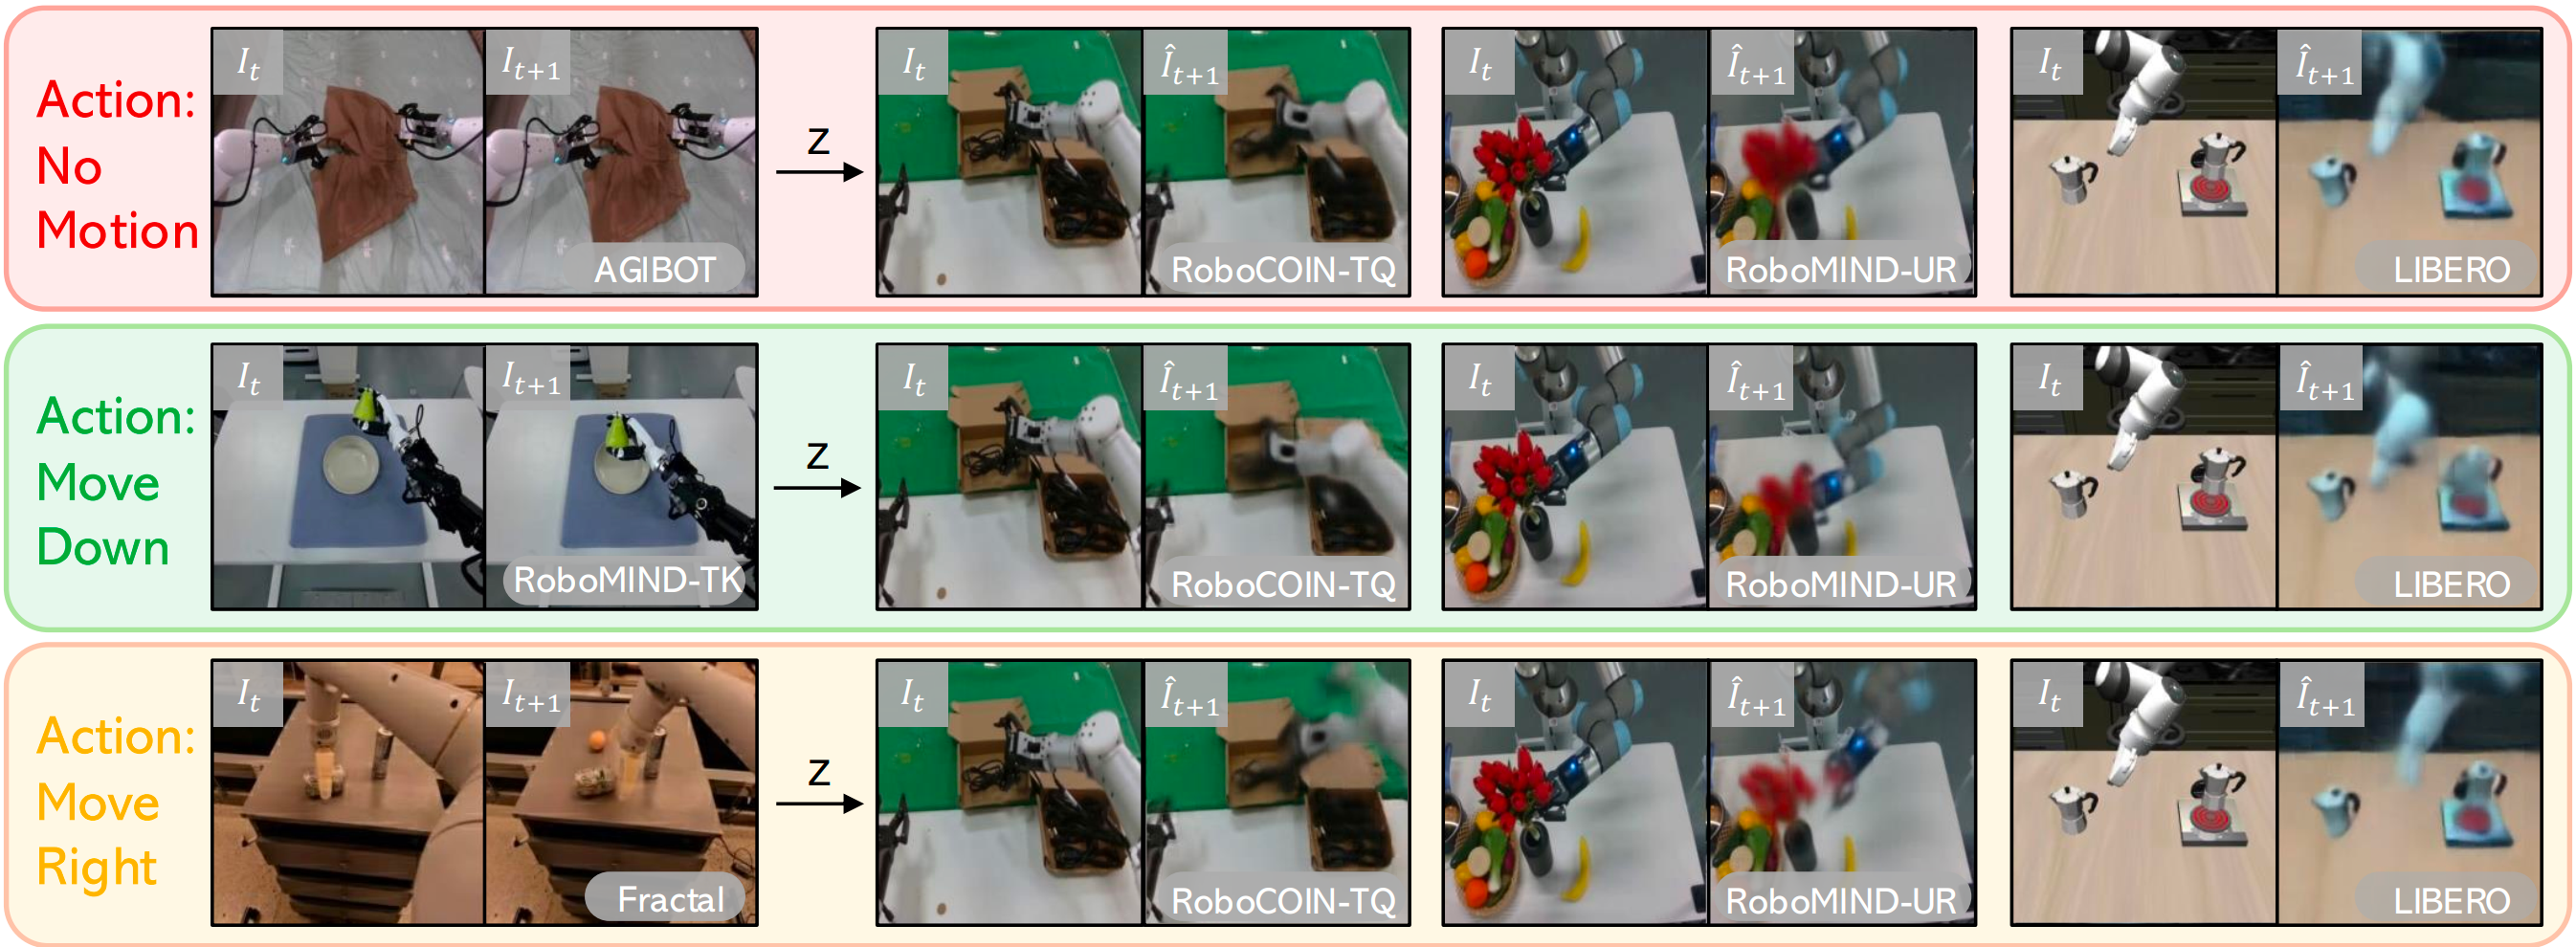
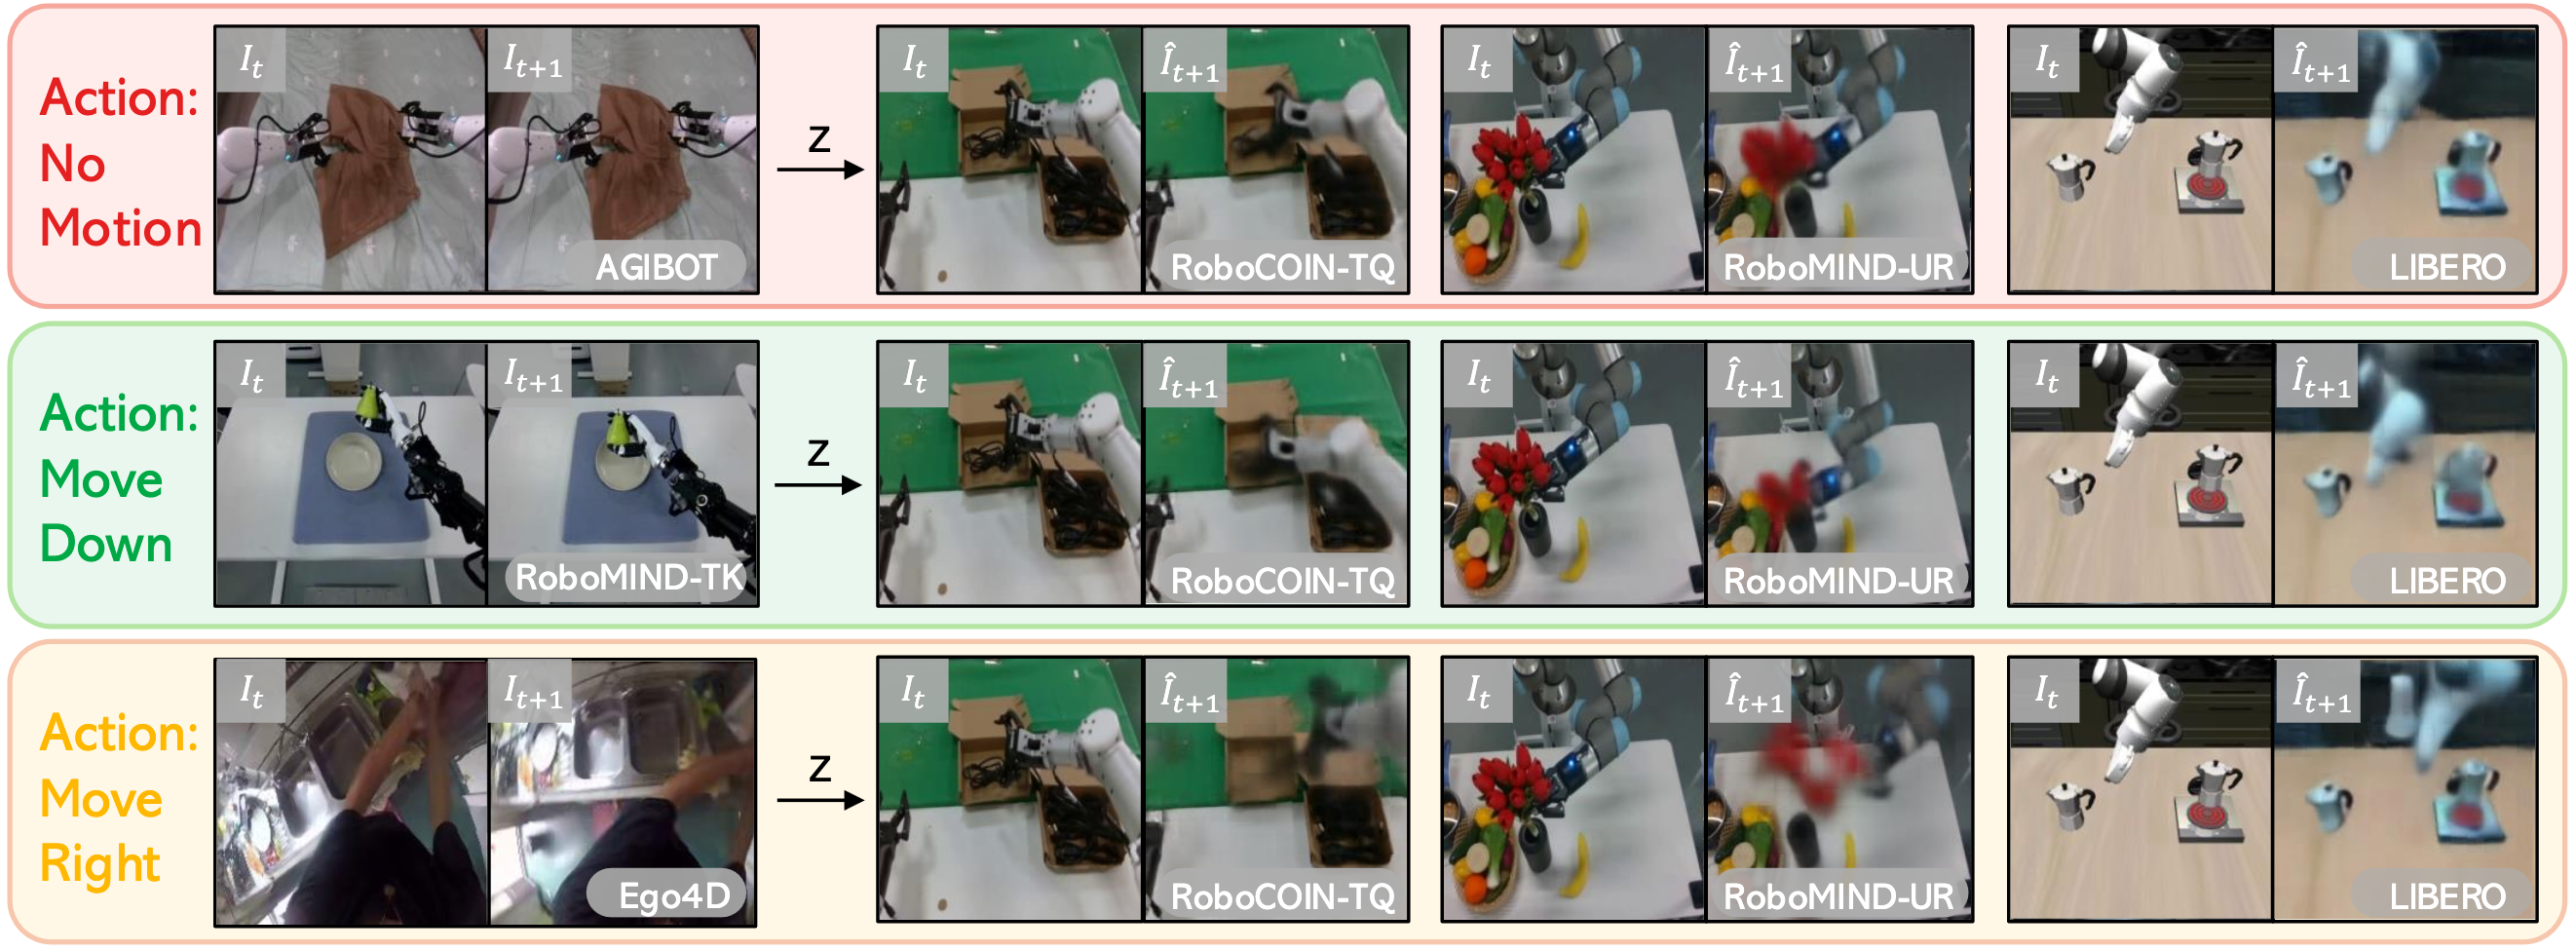
update index.html

diff --git a/index.html b/index.html
@@ -374,15 +374,16 @@
       
       <div class="authors">
         <a class="author-link" href="https://qiweili00.github.io/" target="_blank" rel="noopener noreferrer">Qiwei Li<sup>1</sup></a>,
-        <a class="author-link" href="https://example.com/author2" target="_blank" rel="noopener noreferrer">Xicheng Gong<sup>1</sup></a>,
+        <a class="author-link" href="https://openreview.net/profile?id=~Xicheng_Gong1" target="_blank" rel="noopener noreferrer">Xicheng Gong<sup>1</sup></a>,
         <a class="author-link" href="https://scholar.google.com/citations?user=laOWyTQAAAAJ&hl=zh-CN" target="_blank" rel="noopener noreferrer">Xinghang Li<sup>2</sup></a>,
-        <a class="author-link" href="https://example.com/author4" target="_blank" rel="noopener noreferrer">Quanyun Zhou<sup>2</sup></a>,
+        <a class="author-link" href="https://scholar.google.com/citations?hl=zh-CN&user=b8z2YcYAAAAJ" target="_blank" rel="noopener noreferrer">Peiyan Li<sup>3</sup></a>,
+        <a class="author-link" href="https://openreview.net/profile?id=~Quanyun_Zhou1" target="_blank" rel="noopener noreferrer">Quanyun Zhou<sup>2</sup></a>,
         <a class="author-link" href="https://scholar.google.com/citations?user=68tXhe8AAAAJ&hl=zh-CN&oi=ao" target="_blank" rel="noopener noreferrer">Hangjun Ye<sup>2</sup></a>,
         <a class="author-link" href="https://zhoujiahuan1991.github.io/" target="_blank" rel="noopener noreferrer">Jiahuan Zhou<sup>1*</sup></a>,
         <a class="author-link" href="http://www.muyadong.com/" target="_blank" rel="noopener noreferrer">Yadong Mu<sup>1*</sup></a>
       </div>
 
-      <div class="institution"><sup>1</sup>Wangxuan Institute of Computer Technology, Peking University<br /><sup>2</sup>Xiaomi Robotics</div>
+      <div class="institution"><sup>1</sup>Wangxuan Institute of Computer Technology, Peking University<br /><sup>2</sup>Xiaomi Robotics &nbsp &nbsp <sup>3</sup>CASIA</div> </div>
       <div class="institution" style="font-size:16px; margin-top:8px;"><sup>*</sup>Corresponding author</div>
       
       <div class="actions">
@@ -390,90 +391,85 @@
           <svg viewBox="0 0 24 24" fill="currentColor"><path d="M6 2h9l5 5v15a2 2 0 0 1-2 2H6a2 2 0 0 1-2-2V4a2 2 0 0 1 2-2zm8 1.5V8h4.5L14 3.5zM8 13h8v1.5H8V13zm0 3h8v1.5H8V16zm0-6h4v1.5H8V10z"/></svg>
           Paper
         </a>
-        <a class="btn" href="https://example.com/code" target="_blank" rel="noopener noreferrer">
+        <a class="btn" href="https://github.com/qiweili00/RotVLA" target="_blank" rel="noopener noreferrer">
           <svg viewBox="0 0 24 24" fill="currentColor"><path d="M12 .5C5.73.5.5 5.73.5 12c0 5.08 3.29 9.39 7.86 10.91.57.1.78-.25.78-.55v-2.02c-3.2.7-3.87-1.54-3.87-1.54-.52-1.32-1.27-1.67-1.27-1.67-1.04-.7.08-.69.08-.69 1.15.08 1.75 1.18 1.75 1.18 1.02 1.75 2.67 1.25 3.32.96.1-.74.4-1.25.73-1.54-2.55-.29-5.24-1.27-5.24-5.64 0-1.25.45-2.28 1.18-3.08-.12-.3-.51-1.5.11-3.13 0 0 .97-.31 3.18 1.18a11.1 11.1 0 012.9-.39c.99 0 1.99.13 2.9.39 2.2-1.5 3.17-1.18 3.17-1.18.63 1.63.24 2.83.12 3.13.73.8 1.18 1.83 1.18 3.08 0 4.38-2.7 5.34-5.27 5.63.41.35.77 1.04.77 2.1v3.12c0 .3.2.66.79.55A10.51 10.51 0 0023.5 12C23.5 5.73 18.27.5 12 .5z"/></svg>
-          Code
+          Code (Comming Soon)
         </a>
         <a class="btn" href="https://example.com/checkpoints" target="_blank" rel="noopener noreferrer">
           <span style="font-size:16px; margin-right:6px; vertical-align:middle;">&#129303;</span>
           Checkpoints
         </a>
-        <a class="btn" href="https://example.com/datasets" target="_blank" rel="noopener noreferrer">
+        <!-- <a class="btn" href="https://example.com/datasets" target="_blank" rel="noopener noreferrer">
           📊 Datasets
-        </a>
+        </a> -->
       </div>
     </div>
   </header>
 
-  <section class="section">
+
+
+  <section class="section soft">
     <div class="container">
+      <div>
+        <h2>Abstract</h2>
+        <p class="text">
+          We introduce <strong>RotVLA,</strong> a VLA framework built on a continuous rotational latent action representation. <strong>Latent actions are modeled as elements of SO(n)</strong>, providing continuity, compositionality, and structured geometry aligned with real-world action dynamics. A triplet frame learning framework further enforces meaningful temporal dynamics while avoiding degeneration. RotVLA consists of a VLM backbone and a flow-matching action head, pretrained on large-scale cross-embodiment robotic datasets and human videos with latent-action supervision. For downstream robot control, the flow-matching head is extended into a unified action expert that jointly denoises latent and robot actions. Here, latent actions serve as a latent planner, providing high-level guidance that conditions action generation. With only <strong>1.7B</strong> parameters and 1700+ hours of pretraining data, RotVLA achieves <strong>98.2% on LIBERO and 89.6% / 88.5% on RoboTwin2.0</strong> under clean and randomized settings, respectively. It also demonstrates strong real-world performance on manipulation tasks, consistently outperforming existing VLA models.
+        </p>
+      </div>
+    </div>
+  </section>
+
+    <section class="section"  id="method">
+    <div class="container grid">
       <div class="figure">
         <img src="assets/pipeline.png" />
 
       </div>
-      <p class="caption">
+      <!-- <p class="caption">
         <strong>Figure 1.</strong> Replace this teaser area with your main overview figure.
         A strong teaser should show the task setting, the core idea, and the main takeaway at a glance.
+      </p> -->
+    </div>
+  </section>
+
+  <section class="section">
+    <div class="container">
+      <h2>Method</h2>
+      <p class="text">
+        RotVLA combines a pretrained VLM backbone, a latent action model, and a unified action expert.
+        The key idea is to represent actions using continuous rotations, preserving geometric structure
+        and continuity while enabling learning across diverse embodiments and data sources.
       </p>
-    </div>
-  </section>
 
-  <section class="section soft">
-    <div class="container grid">
-      <div>
-        <h2>Abstract</h2>
-        <p class="text">
-          We introduce RotVLA, a vision-language-action framework built on a continuous rotational latent
-          action representation. By replacing discrete latent tokens with structured continuous rotations
-          and introducing a triplet learning objective, our method learns transferable motion dynamics from
-          heterogeneous data sources. Built upon a pretrained vision-language model with an action expert,
-          RotVLA uses latent actions as high-level planning signals that guide embodiment-specific control.
-          Experiments in simulation and real-world manipulation demonstrate strong generalization and competitive performance.
-        </p>
-      </div>
-    </div>
-  </section>
+      <div class="stack">
+        <div>
+          <h3>Stage I &nbsp;·&nbsp; Continuous Rotational Latent Action</h3>
+          <div class="text" style="font-size:16px;">
+              <p>RotVLA instead represents each latent action as an element of the rotation group <strong>SO(<em>n</em>)</strong>. This preserves continuity (using SoftVQ rather than hard quantization) while enabling meaningful action composition through matrix multiplication, mirroring how real-world motions compose.</p>
 
-  <section class="section" id="method">
-    <div class="container grid-2">
-      <div>
-        <h2>Method</h2>
-        <p class="text">
-          RotVLA combines a pretrained VLM backbone, a latent action model, and a unified action expert.
-          The key idea is to represent actions using continuous rotations, preserving geometric structure
-          and continuity while enabling learning across diverse embodiments and data sources.
-        </p>
-
-        <div class="stack">
-          <div class="mini-card">
-            <h3>1. Rotational Latent Action</h3>
-            <div class="text" style="font-size:16px;">
-              Replace discrete quantized latents with continuous rotations in SO(n) to improve structure and transferability.
-            </div>
+            <p>To prevent the LAM from degenerating into trivial frame reconstruction, we introduce a <strong>triplet learning objective</strong>. Given three consecutive frames <em>I<sub>t</sub></em>, <em>I<sub>t+1</sub></em>, <em>I<sub>t+2</sub></em>, the model extracts two single-step latent actions and composes them via matrix multiplication to predict the two-step transition. This compositional supervision forces the encoder to capture true motion dynamics rather than copying frame appearance, and generalizes zero-shot to unseen datasets and embodiments. </p>
           </div>
-          <div class="mini-card">
-            <h3>2. Triplet Learning Objective</h3>
-            <div class="text" style="font-size:16px;">
-              Encourage temporal compositionality and prevent degeneration into trivial frame reconstruction.
-            </div>
+        </div>
+        <div>
+          <h3>Stage II &nbsp;·&nbsp; RotVLA Pretraining</h3>
+          <div class="text" style="font-size:16px;">
+            RotVLA pairs a pretrained <strong>InternVL3.5-1B</strong> VLM backbone with a flow-matching Diffusion Transformer (DiT) action expert. Given consecutive frames and a language instruction, the RotVLA is pretrained with predicting the latent action. The model is pretrained on over 1,700 hours of cross-embodiment robot datasets (Open X-Embodiment, AGIBOT, RoboMIND, RoboCOIN) and egocentric human videos (Ego4D).
           </div>
-          <div class="mini-card">
-            <h3>3. Unified Action Expert</h3>
-            <div class="text" style="font-size:16px;">
-              Jointly denoise latent actions and robot actions so that latent plans can guide downstream control.
-            </div>
+        </div>
+        <div>
+          <h3>Stage III &nbsp;·&nbsp; RotVLA Finetuning</h3>
+          <div class="text" style="font-size:16px;">
+            For downstream manipulation, the flow-matching head is extended into a <strong>unified action expert</strong> that jointly denoises latent actions and robot actions within a single diffusion process. A structured attention mechanism ensures that latent action tokens attend only to vision-language tokens, while robot action tokens attend to both, allowing latent actions to serve as a <em>latent planner</em> that conditions embodiment-specific control.
           </div>
         </div>
       </div>
 
-      <div>
-        <div class="figure">
-          <div class="placeholder squareish"></div>
-        </div>
-        <p class="caption" style="text-align:left; max-width:none; margin-top:12px;">
-          Replace this with your method overview figure, model diagram, or training pipeline.
-        </p>
+      <div class="figure" style="margin-top: 36px; max-width: 65%; margin-left: auto; margin-right: auto;">
+        <img src="assets/lam_training.png" />
       </div>
+      <p class="caption" style="margin-top:12px;">
+        <strong>Figure.</strong> Illustration of existing LAMs (a) and RotVLA (b).
+      </p>
     </div>
   </section>
 
@@ -487,11 +483,11 @@
           <div class="label">LIBERO Results</div>
         </div>
         <div class="card metric">
-          <div class="value">88.84%</div>
+          <div class="value">89.6%</div>
           <div class="label">RoboTwin2.0 Results (Clean)</div>
         </div>
         <div class="card metric">
-          <div class="value">87.54%</div>
+          <div class="value">88.5%</div>
           <div class="label">RoboTwin2.0 Results (Randomized)</div>
         </div>
         <div class="card metric">
@@ -504,7 +500,7 @@
         <img src="assets/sim_results.png" alt="Simulation benchmark and qualitative results." />
       </div>
       <p class="caption">
-        <strong>Figure 2.</strong> Evaluation on simulation benchmarks (LIBERO and RoboTwin2.0).
+        <strong>Table.</strong> Evaluation on simulation benchmarks (LIBERO and RoboTwin2.0).
       </p>
     </div>
   </section>
@@ -548,22 +544,38 @@
     <div class="container" style="max-width: 980px;">
       <h2>Latent Action Analysis</h2>
 
+      <p class="text" style="margin-bottom: 32px;">
+        We analyze the learned latent actions from three complementary perspectives: reconstruction and compositional consistency, cross-domain generalizability, and representation expressiveness.
+      </p>
+
+      <div class="figure-panel" style="margin-top: 40px;">
+          <p class="text" style="font-size:16px; margin-bottom: 16px;">
+            <strong>Reconstruction and compositional consistency.</strong> We visualize the LAM's reconstruction quality and compositional behavior across three datasets: AGIBOT, RoboMIND-UR, and BC-Z. Given three consecutive frames <em>I<sub>t</sub></em>, <em>I<sub>t+1</sub></em>, <em>I<sub>t+2</sub></em>, the model produces single-step reconstructions <em>Î<sub>t+1</sub></em> and <em>Î<sub>t+2</sub></em>, as well as a composed prediction <em>Î<sup>comp</sup><sub>t+2</sub></em> obtained by applying the composed latent action directly from <em>I<sub>t</sub></em>. The composed prediction closely matches <em>I<sub>t+2</sub></em>, demonstrating that the SO(<em>n</em>) latent space supports meaningful action composition via matrix multiplication.
+          </p>
+          <div class="figure">
+            <img src="assets/latent_action_training.png" alt="Reconstruction and compositional consistency." />
+          </div>
+        </div>
+
       <div class="figure-block">
         <div class="figure-panel">
+          <p class="text" style="font-size:16px; margin-bottom: 16px;">
+            <strong>Cross-domain generalization.</strong> A key desideratum for latent action representations is that motion semantics should transfer across embodiments and datasets. We extract latent actions from one domain and directly apply them to reconstruct frames in other domains, including seen datasets (RoboCOIN, RoboMIND) and the unseen LIBERO benchmark not used during training. Latent actions such as <em>move right</em>, <em>move left</em>, and <em>stay still</em> consistently produce plausible reconstructions across all domains.
+          </p>
           <div class="figure">
             <img src="assets/latent_action_vis.png" alt="Latent action visualization." />
           </div>
-          <p class="caption"><strong>Figure 3.</strong> atent action extracted by one dataset can generalize to
-            other seen dataset (RoboCOIN, RoboMIND) and unseen dataset (LIBERO).</p>
         </div>
 
-        <div class="figure-panel">
-          <div class="figure">
-            <img src="assets/latent_action_regression.png" alt="Latent action regression results." />
+        
+
+        <div class="figure-panel" style="margin-top: 40px;">
+          <p class="text" style="font-size:16px; margin-bottom: 16px;">
+            <strong>Representation expressiveness (LARY benchmark).</strong> We evaluate the quality of latent action representations via linear probing on the LARY benchmark, which tests both regression of low-level robot actions and classification of high-level semantic actions. RotVLA substantially outperforms prior LAMs across all four robot datasets, achieving the lowest regression MSE and highest classification accuracy. Even RotVLA*, whose LAM pretraining excludes overlapping datasets (AGIBOT, RoboCOIN, Ego4D), significantly surpasses competing methods, confirming that the continuous rotational representation captures richer dynamic structure than discrete latent formulations.
+          </p>
+          <div class="figure" style="max-width: 80%; margin-left: auto; margin-right: auto;">
+            <img src="assets/lary.png" alt="Latent action regression results." />
           </div>
-          <p class="caption"><strong>Figure 4.</strong> Training curves of linear probe loss of latent action on seen datasets (Bridge, Fractal)
-            and unseen dataset (LIBERO). RotVLA converges faster and achieves lower probing loss
-            than UniVLA, indicating stronger latent action representation and generalization.</p>
         </div>
       </div>
     </div>
@@ -574,8 +586,8 @@
       <h2>BibTeX</h2>
       <div class="code-box" style="margin-top: 18px;">
 <pre>@inproceedings{rotvla2026,
-  title     = {RotVLA: Rotational Latent Actions for Learning from Heterogeneous Data},
-  author    = {Author One and Author Two and Author Three and Author Four},
+  title     = {RotVLA: Rotational Latent Action for Vision-Language-Action Model},
+  author    = {Qiwei Li and Xicheng Gong and Xinghang Li and Peiyan Li and Quanyun Zhou and Hangjun Ye and Jiahuan Zhou and Yadong Mu},
   booktitle = {Conference Name},
   year      = {2026}
 }</pre>
@@ -583,13 +595,5 @@
     </div>
   </section>
 
-  <section class="section" id="ack">
-    <div class="container" style="max-width: 900px;">
-      <h2>Acknowledgements</h2>
-      <p class="text">
-        We thank our collaborators and colleagues for helpful discussions and support. This work was supported in part by [funding sources], and we acknowledge the use of compute resources from [institution or cluster].
-      </p>
-    </div>
-  </section>
 </body>
 </html>